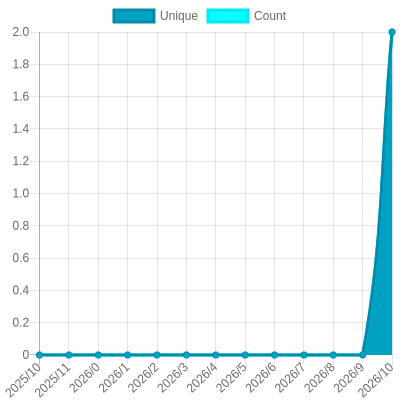
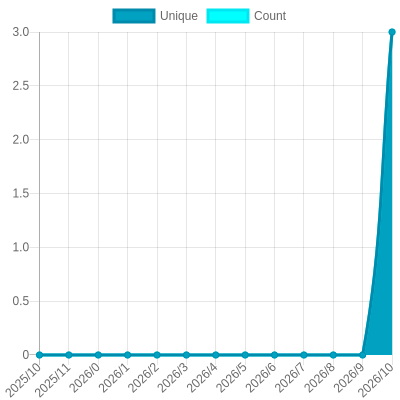
Update views

diff --git a/README.md b/README.md
@@ -26,7 +26,7 @@ The project created and maintained by [gayanvoice](https://github.com/gayanvoice
 			</a>
 		</td>
 		<td>
-			2025/11/13 3:42 AM UTC
+			2025/11/13 6:55 AM UTC
 		</td>
 		<td>
 			0
@@ -45,15 +45,15 @@ The project created and maintained by [gayanvoice](https://github.com/gayanvoice
 			2025/11/13 12:00 AM UTC
 		</td>
 		<td>
-			2
+			3
 		</td>
 		<td>
-			<img alt="Response time graph" src="https://github.com/yy-Hu-xjtu/my-views-counter/raw/master/graph/1084704624/small/year.png" height="20"> 2
+			<img alt="Response time graph" src="https://github.com/yy-Hu-xjtu/my-views-counter/raw/master/graph/1084704624/small/year.png" height="20"> 3
 		</td>
 	</tr>
 </table>
 
-<small><i>Last updated on 2025/11/16 3:42 AM UTC</i></small>
+<small><i>Last updated on 2025/11/16 6:55 AM UTC</i></small>
 
 ## ✂Copy and 📋 Paste
 ### Total Views Badge

diff --git a/readme/1084704624/year.md b/readme/1084704624/year.md
@@ -23,10 +23,10 @@
 			<code>2025/11/1</code>
 		</td>
 		<td>
-			<code>2</code>
+			<code>3</code>
 		</td>
 		<td>
-			<code>2</code>
+			<code>3</code>
 		</td>
 	</tr>
 	<tr>
@@ -164,7 +164,7 @@
 </table>
 
 </details>
-<small><i>Last updated on 2025/11/16 3:42 AM UTC</i></small>
+<small><i>Last updated on 2025/11/16 6:55 AM UTC</i></small>
 
 ## ✂Copy and 📋 Paste
 ### SVG Badge

diff --git a/readme/1084707163/year.md b/readme/1084707163/year.md
@@ -164,7 +164,7 @@
 </table>
 
 </details>
-<small><i>Last updated on 2025/11/16 3:42 AM UTC</i></small>
+<small><i>Last updated on 2025/11/16 6:55 AM UTC</i></small>
 
 ## ✂Copy and 📋 Paste
 ### SVG Badge
